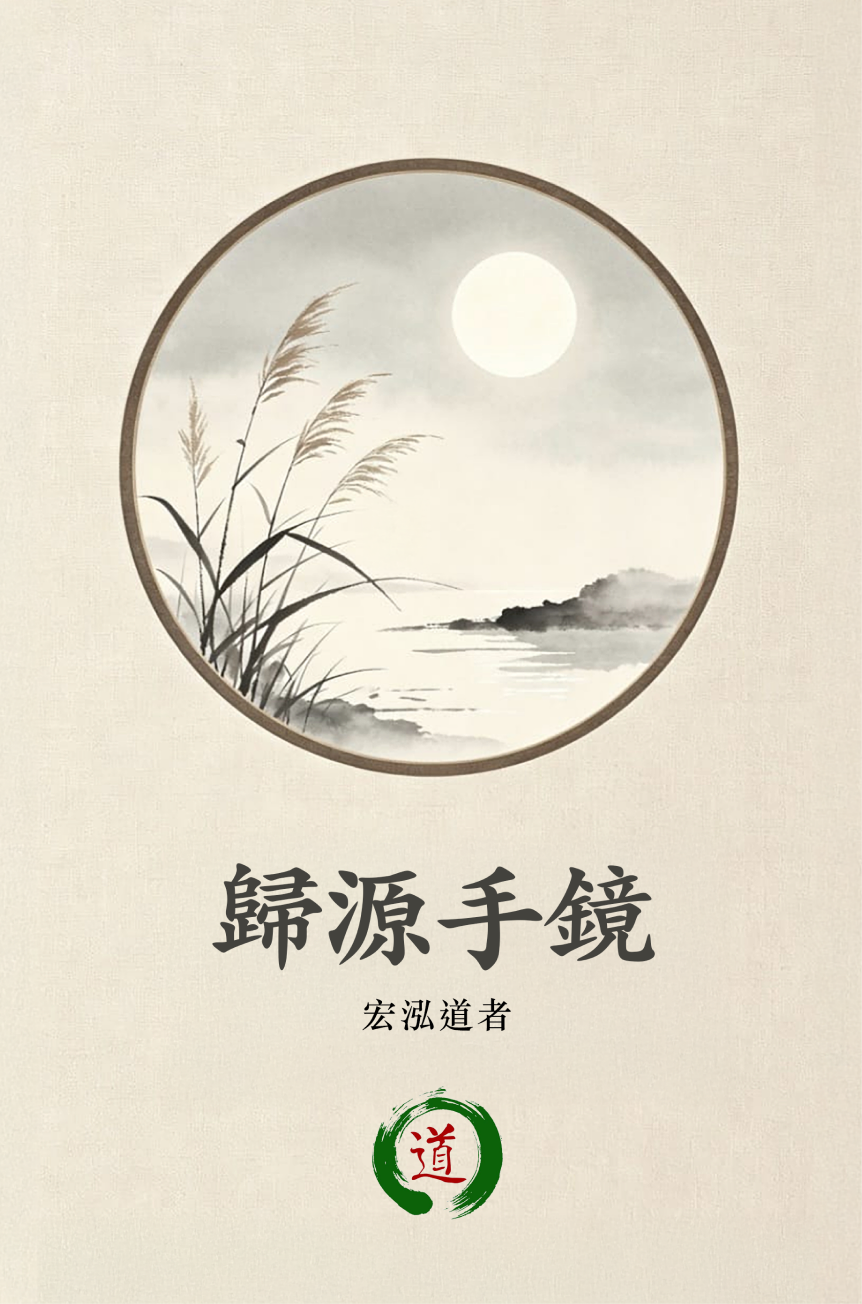
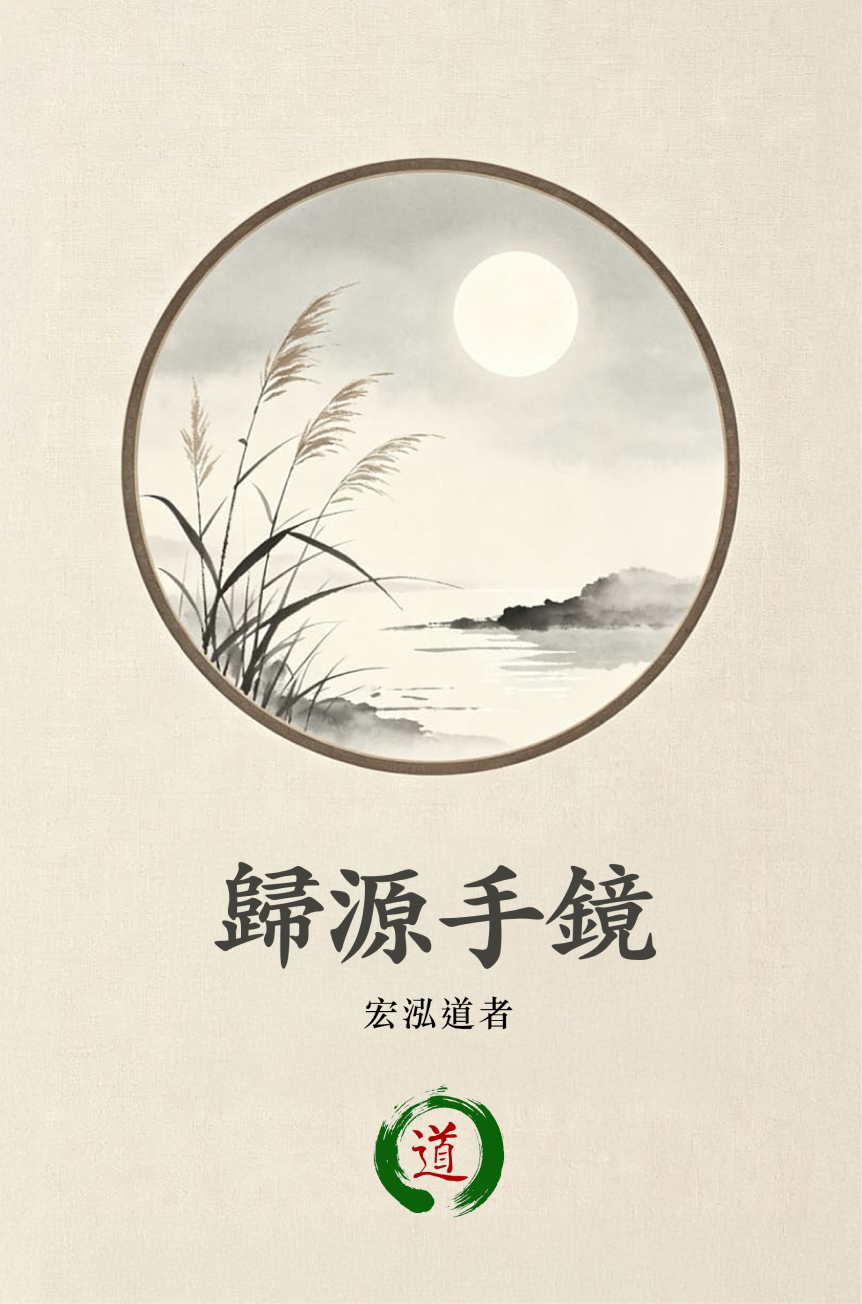
鎖定新封面圖（hash d407638b…），更新 ebook 匯出
- 自 Figma 封面保存 assets/cover-guiyuan.png
- COVER_HASH 5e006be9→d407638b
- 重匯封面 PDF 並合併 ebook（297 葉）

diff --git a/tools/render_tb5_figma.js b/tools/render_tb5_figma.js
@@ -1,5 +1,5 @@
 const HASH = "797faf869dbbe9e3429873db66b8c6c5654d39af";
-const COVER_HASH = "5e006be93eec95627d3f275ed678f5b9a9d9effe";
+const COVER_HASH = "d407638bc4da7eacc786b0f29dc63004b8dd2ff0";
 // Plate images: 九天玄女 / 呂祖 / 四人 (B/W) + 華玉講堂 promo (full color).
 const ILLUST_HASH = {
   jiutian: "59c193cd3b38b2e495eb619b2794d4cd9f520535",
